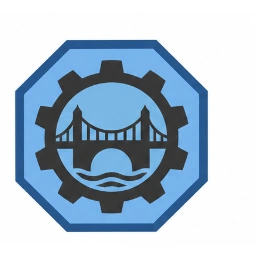
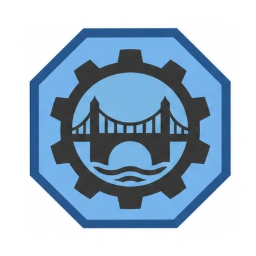
Center nation heraldry artwork

diff --git a/src/nationEmblems.js b/src/nationEmblems.js
@@ -1,4 +1,4 @@
 // Draft emblems exist for every nation except 4-6, which is not a state.
 const ids = new Set(["3-1", "3-2", "3-3", "3-4", "4-1", "4-2", "4-3", "4-4", "4-5"]);
 
-export const nationEmblem = (id) => (ids.has(id) ? `${import.meta.env.BASE_URL}assets/heraldry/${id}.webp` : null);
+export const nationEmblem = (id) => (ids.has(id) ? `${import.meta.env.BASE_URL}assets/heraldry/${id}.webp?v=2` : null);
